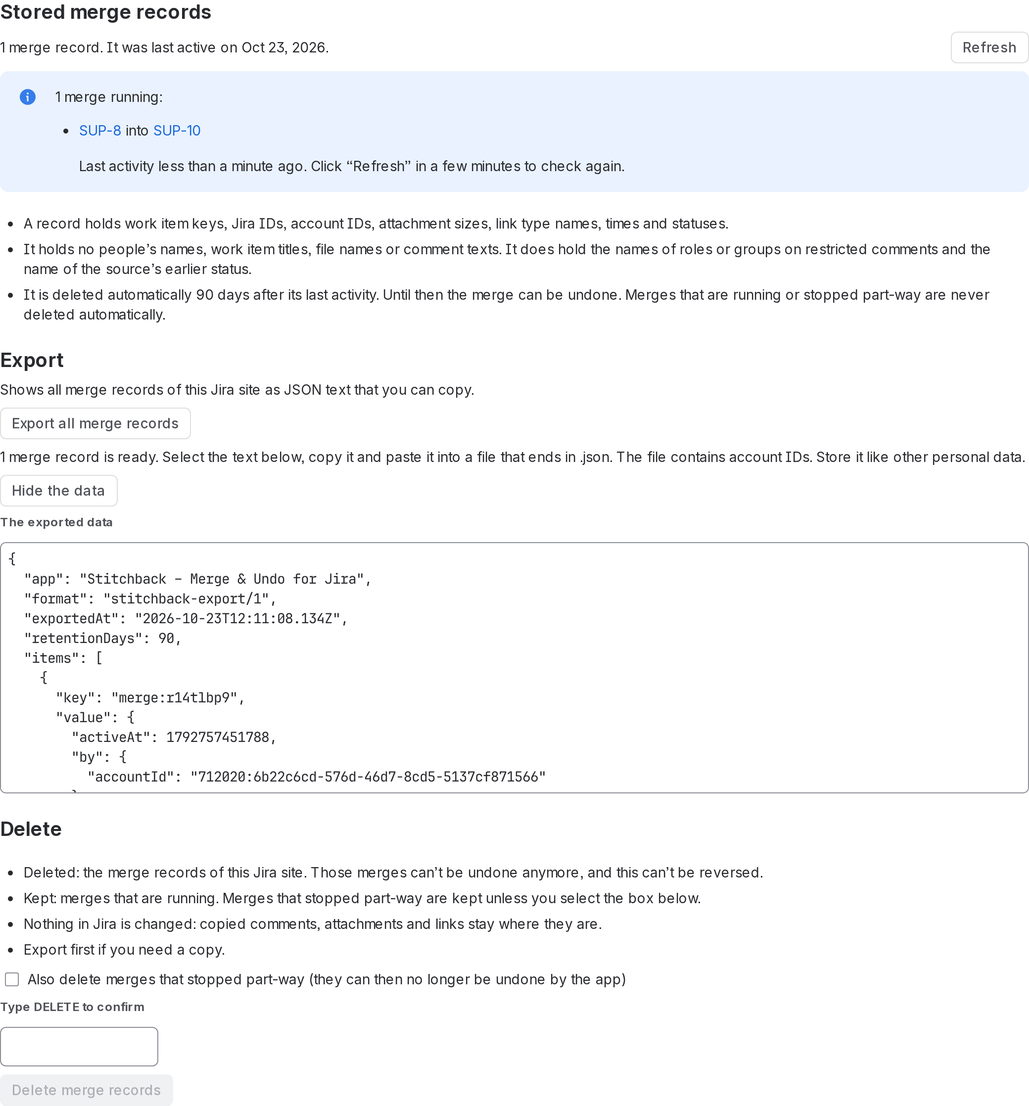
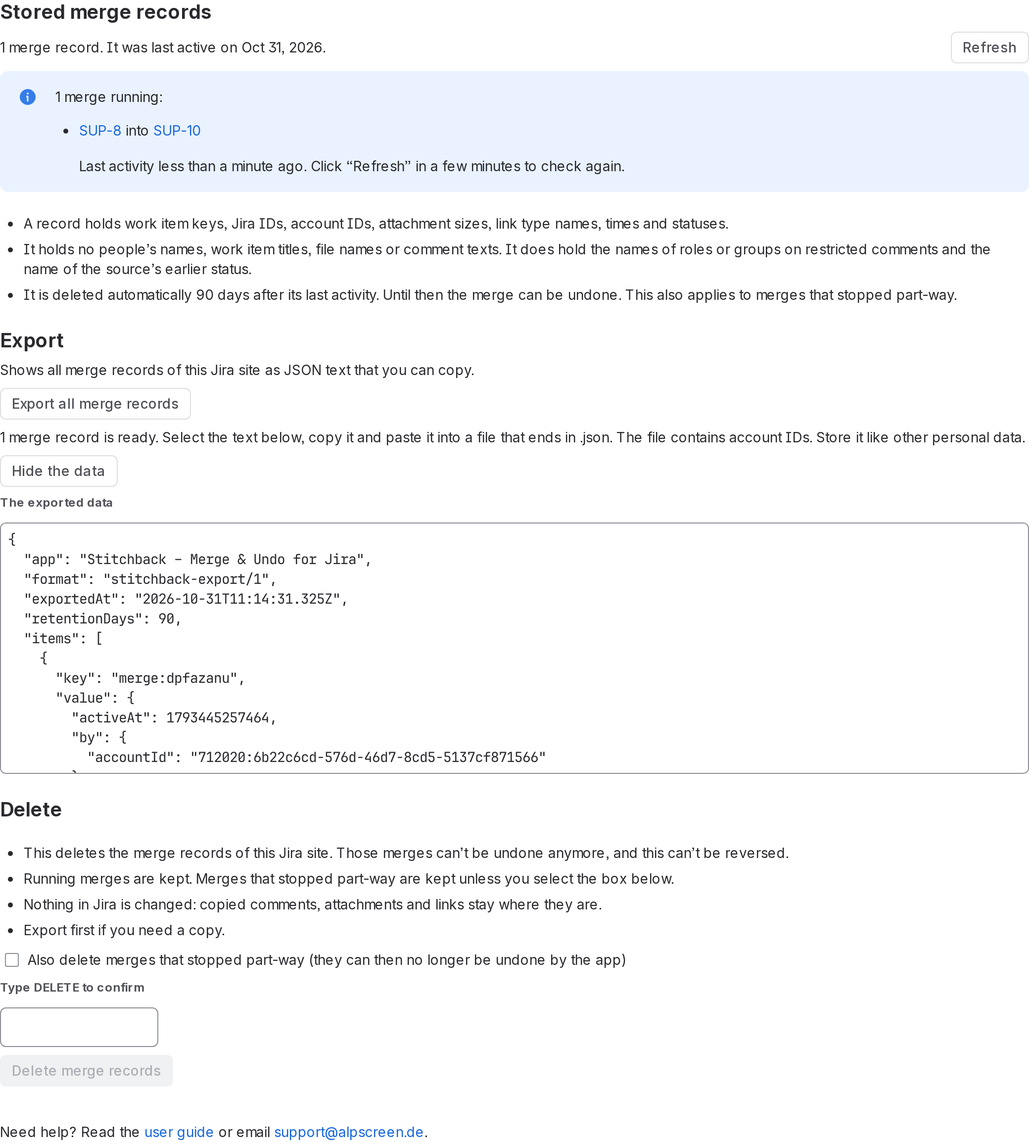
User Guide und Exportformat nach Code-Stand (lookup-Feld, fuenf Ablehnungen, Space-Begriff), Bilder neu (Quelle jira-merge a320d0e)

diff --git a/user-guide.html b/user-guide.html
@@ -7,38 +7,38 @@ figure{margin:12px 0 24px}figcaption{font-size:13px;color:#44546f;margin-top:6px
 nav{font-size:14px;margin-bottom:24px}
 </style></head><body><nav><a href="index.html">All documents</a> · <a href="eula.html">End User Terms</a> · <a href="privacy.html">Privacy Policy</a> · <a href="dpa.html">Data Processing Agreement</a> · <a href="support.html">Support</a> · <a href="security.html">Security</a> · <a href="export-format.html">Export Format</a> · <strong>User Guide</strong></nav><h1>Stitchback – Merge &amp; Undo for Jira: User guide</h1>
 <h2>What it does</h2>
-<p>Stitchback merges one Jira or Jira Service Management work item (the <em>source</em>) into another (the <em>target</em>). It copies the comments, attachments and work item links of the source to the target. It adds the requester when they can see the target, writes a merge note on the target and a closing note on the source. Then it links the two work items as duplicates and closes the source if its workflow allows. It uses a direct transition to a done status, or the transition you choose in the preview. Nothing is deleted from the source: the source work item stays, and the merge can be undone for 90 days.</p>
+<p>Stitchback merges one Jira or Jira Service Management work item (the <em>source</em>) into another (the <em>target</em>). It copies the comments, attachments and work item links of the source to the target. It adds the requester (in a software space: the reporter) when they can see the target. It also writes a merge note on the target and a closing note on the source. Then it links the two work items as duplicates and closes the source if its workflow allows. It uses a direct transition to a done status, or the transition you choose in the preview. Nothing is deleted from the source: the source work item stays, and the merge can be undone for 90 days.</p>
 <p>The app runs on Atlassian’s Forge platform. It acts as the user who clicks, so it can do nothing that user is not allowed to do.</p>
 <h2>Before you start</h2>
-<ul><li><strong>Jira Cloud.</strong> Stitchback works in Jira and Jira Service Management Cloud, in company-managed and team-managed projects, and between the two. It does not run on Jira Data Center or Server.</li><li><strong>A Jira administrator</strong> installs the app and is the only one who can open its admin page.</li><li><strong>Permissions.</strong> Each person who merges needs the Jira permissions listed under “Permissions you need”. The app checks them in the preview, before anything is changed.</li><li><strong>A browser window that stays open</strong> while a merge runs. Large merges take a few minutes.</li></ul>
+<ul><li><strong>Jira Cloud.</strong> Stitchback works in Jira and Jira Service Management Cloud, in company-managed and team-managed spaces, and between the two. It does not run on Jira Data Center or Server.</li><li><strong>A Jira administrator</strong> installs the app and is the only one who can open its admin page.</li><li><strong>Permissions.</strong> Each person who merges needs the Jira permissions listed under “Permissions you need”. The app checks them in the preview, before anything is changed.</li><li><strong>A browser window that stays open</strong> while a merge runs. Large merges take a few minutes.</li></ul>
 <h2>Install, trial and price</h2>
 <ol><li>A Jira administrator installs Stitchback from its Atlassian Marketplace listing, or from Jira’s app search (gear icon → <strong>Apps</strong>). Jira shows the permissions the app asks for before you confirm.</li><li>Once the app is installed, every work item has the entry <strong>Merge into another work item</strong> in its <strong>•••</strong> menu. It can take about a minute before the entry appears.</li><li>Jira administrators find the admin page <strong>Stitchback – merge records</strong> under the gear icon → <strong>Apps</strong>, in the left sidebar.</li></ol>
 <p>Stitchback is a paid app, billed by Atlassian. You can try it free for the trial period that the Atlassian Marketplace offers. The current prices are on the <strong>Pricing</strong> tab of the Marketplace listing. If the license ends, new merges are off, but undo, export and deletion keep working (see “License” below).</p>
 <h2>Merge two work items</h2>
-<ol><li>Open the source work item, click the <strong>•••</strong> menu and choose <strong>Merge into another work item</strong>.<br><figure><img alt="The ••• menu of a work item with the entry Merge into another work item." src="images/menu.png"><figcaption>The ••• menu of a work item with the entry Merge into another work item.</figcaption></figure></li><li>Search for the target work item by its key or title, for example <code>SUP-1</code>, and choose it from the list.</li><li>Choose what to copy: comments, attachments, work item links, and whether to close this work item afterwards. Choose how to treat the requester (see below).</li><li>Click <strong>Preview</strong>, then <strong>Merge</strong>. A progress bar shows the steps. Large merges take a few minutes. Keep the window open until it is done.<br><figure><img alt="The merge window with a preview of the comments, attachments and links to copy, and a warning that the subtasks stay with the source." src="images/preview.png"><figcaption>The merge window with a preview of the comments, attachments and links to copy, and a warning that the subtasks stay with the source.</figcaption></figure> <figure><img alt="The window after the merge: a green message with the numbers of copied comments, attachments and links, and the button Undo this merge." src="images/merged.png"><figcaption>The window after the merge: a green message with the numbers of copied comments, attachments and links, and the button Undo this merge.</figcaption></figure></li></ol>
+<ol><li>Open the source work item, click the <strong>•••</strong> menu and choose <strong>Merge into another work item</strong>.<br><figure><img alt="The ••• menu of a work item with the entry Merge into another work item." src="images/menu.png"><figcaption>The ••• menu of a work item with the entry Merge into another work item.</figcaption></figure></li><li>Search for the target work item by its key or title, for example <code>SUP-1</code>, and choose it from the list.</li><li>Choose what to copy: comments, attachments, work item links, and whether to close this work item afterwards. Choose how to treat the requester (in a software space: the reporter), see below.</li><li>Click <strong>Preview</strong>, then <strong>Merge</strong>. A progress bar shows the steps. Large merges take a few minutes. Keep the window open until it is done.<br><figure><img alt="The merge window with a preview of the comments, attachments and links to copy, and a warning that the subtasks stay with the source." src="images/preview.png"><figcaption>The merge window with a preview of the comments, attachments and links to copy, and a warning that the subtasks stay with the source.</figcaption></figure> <figure><img alt="The window after the merge: a green message with the numbers of copied comments, attachments and links, and the button Undo this merge." src="images/merged.png"><figcaption>The window after the merge: a green message with the numbers of copied comments, attachments and links, and the button Undo this merge.</figcaption></figure></li></ol>
 <p>What is copied:</p>
-<ul><li><strong>Comments</strong>, oldest first. Each copy starts with a line “Originally posted by <em>author</em> on <em>date</em> in <em>SOURCE</em>”. The copy itself is written by the person who clicked Merge. Rich text is kept. @-mentions become plain text, so nobody is notified a second time. Images embedded in a comment become a text note (the file itself arrives as an attachment).</li><li><strong>Attachments</strong> up to 25 MB each. A larger file stays on the source; a note points to it. A file that is already on the target (same name and size) is skipped, and the preview and the result name it.</li><li><strong>Work item links.</strong> A link between the two work items themselves is not copied, and no link is created twice.</li><li><strong>Requester.</strong></li><li>In a service project, the portal customer is added as a <em>request participant</em> of the target.</li><li>By default this happens only if the customer can already see the target, for example through the same organization.</li><li>If not, the preview warns you.</li><li>Staff members (licensed users) become watchers.</li><li>To change this, click “Change options”. Then choose “Only if they can already see the target (recommended)”, “Always add the requester” or “Never add the requester”.</li><li><strong>Note and link.</strong></li><li>A merge note on the target and a closing note on the source record the merge. Both are internal notes in service projects and regular comments in other projects.</li><li>The two work items are linked as duplicates.</li><li>The source is closed through a direct transition to a done status, if its workflow has one.</li><li>Otherwise you choose a transition in the preview.</li><li>If you choose none, the source stays open and the preview says so.</li></ul>
-<p>Comments in a <strong>service project</strong> (target) are created as <strong>internal notes</strong>, so the customer does not receive copies of internal history. If a comment was restricted to a role or group, the restriction is kept. If that is not possible on the target, the comment is <strong>not</strong> copied rather than posted more openly. When a service request is merged into a <strong>software project</strong>, its internal notes stay behind by default. “Skip internal notes” is selected, and the preview says how many. Clear the option to copy them; they are then visible to everyone who can see the target, and the preview warns you.</p>
+<ul><li><strong>Comments</strong>, oldest first. Each copy starts with a line “Originally posted by <em>author</em> on <em>date</em> in <em>SOURCE</em>”. The copy itself is written by the person who clicked Merge. Rich text is kept. @-mentions become plain text, so nobody is notified a second time. Images embedded in a comment become a text note (the file itself arrives as an attachment).</li><li><strong>Attachments</strong> up to 25 MB each. A larger file stays on the source; a note points to it. A file that is already on the target (same name and size) is skipped, and the preview and the result name it.</li><li><strong>Work item links.</strong> A link between the two work items themselves is not copied, and no link is created twice.</li><li><strong>Requester.</strong></li><li>In a service space, the portal customer is added as a <em>request participant</em> of the target.</li><li>By default this happens only if the customer can already see the target, for example through the same organization.</li><li>If not, the preview warns you.</li><li>Staff members (licensed users) become watchers.</li><li>To change this, click “Change options”. Then choose “Only if they can already see the target (recommended)”, “Always add the requester” or “Never add the requester”. In a software space the window says “reporter” instead.</li><li><strong>Note and link.</strong></li><li>A merge note on the target and a closing note on the source record the merge. Both are internal notes in service spaces and regular comments in other spaces.</li><li>The two work items are linked as duplicates.</li><li>The source is closed through a direct transition to a done status, if its workflow has one.</li><li>Otherwise you choose a transition in the preview.</li><li>If you choose none, the source stays open and the preview says so.</li></ul>
+<p>Comments in a <strong>service space</strong> (target) are created as <strong>internal notes</strong>, so the customer does not receive copies of internal history. If a comment was restricted to a role or group, the restriction is kept. If that is not possible on the target, the comment is <strong>not</strong> copied rather than posted more openly. When a service request is merged into a <strong>software space</strong>, its internal notes stay behind by default. “Skip internal notes” is selected, and the preview says how many. Clear the option to copy them; they are then visible to everyone who can see the target, and the preview warns you.</p>
 <p>Subtasks, and the child work items of an epic, stay with the source work item (the preview says so).</p>
-<p>The app refuses four things:</p>
-<ul><li>merging a work item into itself</li><li>merging a subtask into its own parent</li><li>merging a source that has a work item security level into a target with a different level or none</li><li>merging a work item that is already being merged</li></ul>
+<p>The app refuses five things:</p>
+<ul><li>merging a work item into itself</li><li>merging a subtask into its own parent</li><li>merging a source that has a work item security level into a target with a different level or none</li><li>merging a work item that is already being merged</li><li>merging a source with more than 1,000 comments, attachments and links together (turn off one kind under “Change options”)</li></ul>
 <h2>Permissions you need</h2>
 <p>Stitchback acts as you, so you need these Jira permissions. The preview checks the most important ones before anything is changed. If Add comments, Create attachments or Link work items is missing in the target, the preview says so and the merge does not start. Ask a Jira admin for the permission, or click “Change options” and turn off that part. If Jira still refuses one of these during the merge, the merge stops and says which step Jira refused. If Transition work items is missing in the source, the preview warns you and the source stays open. If another permission is missing, the merge runs to the end and the result names what was not done.</p>
-<ul><li>Browse projects, in both projects</li><li>Add comments, in the target</li><li>Create attachments, in the target</li><li>Link work items, in the target</li><li>Transition work items, in the source</li><li>To add the requester as a watcher: Manage watchers</li><li>To undo <strong>your own</strong> merge: Delete own comments and Delete own attachments</li><li>To undo a merge <strong>someone else</strong> started: Delete all comments and Delete all attachments, in the target. Jira lets you delete comments and attachments that another person added only with these permissions. The app checks them first. If one is missing, it changes nothing and tells you to ask the person who merged, or a Jira admin, to undo it.</li></ul>
+<ul><li>Browse projects, in both spaces</li><li>Add comments, in the target</li><li>Create attachments, in the target</li><li>Link work items, in the target</li><li>Transition work items, in the source</li><li>To add the requester (in a software space: the reporter) as a watcher: Manage watchers</li><li>To undo <strong>your own</strong> merge: Delete own comments and Delete own attachments</li><li>To undo a merge <strong>someone else</strong> started: Delete all comments and Delete all attachments, in the target. Jira lets you delete comments and attachments that another person added only with these permissions. The app checks them first. If one is missing, it changes nothing and tells you to ask the person who merged, or a Jira admin, to undo it.</li></ul>
 <h2>Preview</h2>
-<p><strong>Preview</strong> changes nothing. It shows the two work items and the number of comments, attachments and links that would be copied. It also shows whether the requester will be added, how the source will be closed, and any warnings. The warnings you may see:</p>
-<ul><li>An attachment larger than 25 MB stays on the source, and a note points to it.</li><li>An attachment is already on the target, so it won’t be copied again.</li><li>The requester can’t see the target.</li><li>A requester who is a portal customer can’t be added as a watcher.</li><li>Subtasks stay behind on the source.</li><li>Internal notes of a service request won’t be copied, so they stay internal. This is the default.</li><li>Internal notes of a service request become visible to everyone who can see the software-project target. This happens only if you cleared “Skip internal notes”.</li><li>No direct transition to a done status exists, so the source stays open unless you choose one.</li></ul>
+<p><strong>Preview</strong> changes nothing. It shows the two work items and the number of comments, attachments and links that would be copied. It also shows whether the requester (in a software space: the reporter) will be added, how the source will be closed, and any warnings. The warnings you may see:</p>
+<ul><li>An attachment larger than 25 MB stays on the source, and a note points to it.</li><li>An attachment is already on the target, so it won’t be copied again.</li><li>The requester can’t see the target.</li><li>A requester who is a portal customer can’t be added as a watcher.</li><li>Subtasks stay behind on the source.</li><li>Internal notes of a service request won’t be copied, so they stay internal. This is the default.</li><li>Internal notes of a service request become visible to everyone who can see the software-space target. This happens only if you cleared “Skip internal notes”.</li><li>No direct transition to a done status exists, so the source stays open unless you choose one.</li></ul>
 <p>Changing any option clears the preview, so you merge what you previewed. The <strong>Merge</strong> button appears once a preview has succeeded. Until then, the window tells you to click <strong>Preview</strong> first.</p>
 <h2>Undo</h2>
 <h3>Before undo: the question</h3>
 <p>After a merge the window offers <strong>Undo this merge</strong>. If you open the source work item later, the window tells you that it was merged and offers <strong>Undo this merge</strong> again. The app asks you to confirm before it removes anything. The question lists what goes away from the target. These are the copies, the duplicate link, the added request participant or watcher, the merge note and any note about a large attachment. From the source it removes the closing note. It also says which status the source goes back to and that a note about the undo is added to both work items. Comments and changes made by people stay.</p>
 <figure><img alt="The question “Undo this merge?” with the buttons Cancel and Undo this merge." src="images/undo-confirm.png"><figcaption>The question “Undo this merge?” with the buttons Cancel and Undo this merge.</figcaption></figure>
 <h3>After undo: the result</h3>
-<p>If the merge was started by someone else, the app first checks that you may delete their copies (see “Permissions you need”). Undo removes exactly what the question listed. Where its workflow allows, it moves the source back to its earlier status. It leaves a note on both work items (an internal note in service projects). When it is done, the window lists what it removed, for example “Removed 45 comments, the duplicate link and the merge note from MRG-5.” It also says which status the source is in again, and that the closing note was removed from the source. A link that already existed between the two work items before the merge is <strong>kept</strong>, because it was not made by the app.</p>
+<p>If the merge was started by someone else, the app first checks that you may delete their copies (see “Permissions you need”). Undo removes exactly what the question listed. Where its workflow allows, it moves the source back to its earlier status. It leaves a note on both work items (an internal note in service spaces). When it is done, the window lists what it removed, for example “Removed 45 comments, the duplicate link and the merge note from MRG-5.” It also says which status the source is in again, and that the closing note was removed from the source. A link that already existed between the two work items before the merge is <strong>kept</strong>, because it was not made by the app.</p>
 <p>Undo is possible for <strong>90 days</strong> after the merge’s last activity. After that the record is deleted and the merge can no longer be undone by the app.</p>
 <h3>If a merge or an undo stops part-way</h3>
 <ul><li>Undo can take a few minutes, like the merge, and shows a progress bar. If it stops part-way, open the work item again and click <strong>Resume</strong>; it checks Jira first and does not repeat finished steps.</li><li>A merge that stopped part-way (browser closed, network lost) shows <strong>Resume</strong> and <strong>Undo this merge</strong> when you open the source work item. The merge may still be running. You can undo it about 3 minutes after its last activity.</li><li>If you undo the same merge in two windows at once, the second one changes nothing. It says that another undo is running, or that the merge was already undone.</li></ul>
-<p>A merge that Jira refused (for example, a missing permission) is shown as failed: undo it, then merge again. If Jira is busy or does not answer, the merge stops and the window shows <strong>Resume</strong>. The app retries a failed call twice by itself first.</p>
+<p>If Jira refuses a step, for example for a missing permission, the merge stops part-way. The window offers <strong>Undo this merge</strong>: undo it, then merge again. If Jira is busy or does not answer, the merge stops and the window shows <strong>Resume</strong>. The app retries a failed call twice by itself first.</p>
 <h2>Stitchback is paused</h2>
 <p>The vendor can pause the app for all sites (for example after a security problem). While it is paused, the window shows “Stitchback is paused” and this message instead of the merge form: “The app vendor paused Stitchback for safety. Merge, resume and undo are off, and nothing was changed. Try again in a few hours. If it stays off, email support@alpscreen.de.” It takes effect about a minute after the switch is turned on. A merge or undo that is running then stops after its current step. The window says: “The app vendor paused Stitchback for safety, so this merge stopped part-way. What was copied so far stays, and nothing was deleted. Open the work item again in a few hours and click “Resume”. If it stays paused, email support@alpscreen.de.” The admin page (export and delete) is <strong>not</strong> affected.</p>
 <h2>Export and delete your data</h2>
@@ -48,15 +48,15 @@ nav{font-size:14px;margin-bottom:24px}
 <ul><li><strong>Export all merge records</strong> shows a summary and each merge record of your site as a JSON block. The block has a fixed height with its own scroll bar. The app can’t start a file download, so copy the text and save it as a <code>.json</code> file yourself. The file contains account IDs: store it like other personal data. The format of the document is described on the <a href="https://tomgebauerservices.github.io/stitchback-legal/export-format.html">export format page</a>.</li><li><strong>Delete merge records</strong> deletes the merge records of your site. Type <code>DELETE</code> to enable the button. Merges that are running are not deleted and are listed. Merges that stopped part-way are kept unless you select the box “Also delete merges that stopped part-way”. <strong>After deleting, those merges can no longer be undone by the app.</strong> Nothing in Jira is changed: copied comments, attachments and links stay where they are.</li></ul>
 <p>Export and deletion also work when the license is inactive and while Stitchback is paused.</p>
 <h2>Uninstall and what happens to your data</h2>
-<ol><li><strong>Export first, if you want to keep the merge records.</strong> On the admin page, click <strong>Export all merge records</strong> and save the text as a <code>.json</code> file. After uninstalling, the export is no longer available.</li><li><strong>Delete the records, if you want them gone now</strong> (optional): <strong>Delete merge records</strong> on the admin page.</li><li><strong>Uninstall:</strong> gear icon → <strong>Apps</strong> → <strong>Manage apps</strong>, open Stitchback and choose <strong>Uninstall</strong>.</li></ol>
+<ol><li><strong>Export first, if you want to keep the merge records.</strong> On the admin page, click <strong>Export all merge records</strong> and save the text as a <code>.json</code> file. After uninstalling, the export is no longer available.</li><li><strong>Delete the records, if you want them gone now</strong> (optional): <strong>Delete merge records</strong> on the admin page.</li><li><strong>Uninstall:</strong> gear icon → <strong>Apps</strong> → <strong>Manage apps</strong>, then <strong>Take me there</strong>. Jira opens <strong>Connected apps</strong> in Administration. Open Stitchback there and uninstall it.</li></ol>
 <p>What stays and what goes:</p>
 <ul><li><strong>Your work items stay as they are.</strong> Copied comments, attachments, links, notes and closed sources remain in Jira. After uninstalling, merges can no longer be undone by the app.</li><li><strong>The merge records</strong> are kept by Atlassian according to its data lifecycle for Forge apps, then deleted. The details are in the <a href="https://tomgebauerservices.github.io/stitchback-legal/privacy.html">Privacy Policy</a>, Section A5.</li><li>The vendor holds no copy of your data outside Atlassian.</li></ul>
 <h2>License</h2>
 <p>Starting a <strong>new merge</strong> needs an active Marketplace license. If Atlassian reports the license as explicitly inactive, the window shows “Your Stitchback license isn’t active, so new merges are off. Existing merges can still be undone. Ask a Jira admin to renew the license.” and <strong>Merge</strong> is disabled. Preview, finishing a merge that has begun, Undo, and the admin page keep working. If the app receives no license information at all, it does not block.</p>
 <h2>Known limits</h2>
-<ul><li><strong>Not copied:</strong> subtasks and the child work items of an epic, and attachments over 25 MB. The original author is not kept as author. Copies carry a header line instead, for example “Originally posted by Alex on Oct 1, 2026 09:00 in SUP-2 as an internal note:”.</li><li><strong>Time:</strong> large merges take a few minutes. Keep the window open until the progress bar is done.</li><li><strong>Reopening the source:</strong> if no transition leads back, the source stays closed; the window tells you.</li><li><strong>Undo period:</strong> 90 days; deleting merge records removes the ability to undo.</li><li><strong>Safety measure:</strong> if a copy that was created as internal comes back as public, the app deletes it at once and stops the merge. Use Undo to remove what was already copied.</li><li><strong>Service → software:</strong> internal notes of a service request stay behind unless you clear “Skip internal notes”. If you do, they become visible to everyone who can see the target, and the preview warns you.</li><li><strong>Export</strong> is a copyable JSON block, not a file download.</li><li><strong>Requesters:</strong> a portal customer can only be added to a target in a service project. There, “Always add the requester” adds them even if they can’t see the target. In other projects they can’t be added, and the preview says so.</li><li><strong>Size of one merge:</strong> at most 1,000 comments, attachments and links. Above that the preview asks you to turn off one part under “Change options”.</li><li><strong>Undo by someone else</strong> needs the Jira permissions Delete all comments and Delete all attachments.</li></ul>
+<ul><li><strong>Not copied:</strong> subtasks and the child work items of an epic, and attachments over 25 MB. The original author is not kept as author. Copies carry a header line instead, for example “Originally posted by Alex on Oct 1, 2026 09:00 in SUP-2 as an internal note:”.</li><li><strong>Time:</strong> large merges take a few minutes. Keep the window open until the progress bar is done.</li><li><strong>Reopening the source:</strong> if no transition leads back, the source stays closed; the window tells you.</li><li><strong>Undo period:</strong> 90 days; deleting merge records removes the ability to undo.</li><li><strong>Safety measure:</strong> if a copy that was created as internal comes back as public, the app deletes it at once and stops the merge. Use Undo to remove what was already copied.</li><li><strong>Service → software:</strong> internal notes of a service request stay behind unless you clear “Skip internal notes”. If you do, they become visible to everyone who can see the target, and the preview warns you.</li><li><strong>Export</strong> is a copyable JSON block, not a file download.</li><li><strong>Requesters:</strong> a portal customer can only be added to a target in a service space. There, “Always add the requester” adds them even if they can’t see the target. In other spaces they can’t be added, and the preview says so.</li><li><strong>Size of one merge:</strong> at most 1,000 comments, attachments and links. Above that the preview asks you to turn off one part under “Change options”.</li><li><strong>Undo by someone else</strong> needs the Jira permissions Delete all comments and Delete all attachments.</li></ul>
 <h2>Troubleshooting and FAQ</h2>
-<p><strong>The entry Merge into another work item is missing.</strong> Reload the page. Right after you install the app it can take about a minute. If it is still missing, ask a Jira admin to check under gear icon → <strong>Apps</strong> → <strong>Manage apps</strong> that Stitchback is installed and enabled.</p>
+<p><strong>The entry Merge into another work item is missing.</strong> Reload the page. Right after you install the app it can take about a minute. If it is still missing, ask a Jira admin to check that Stitchback is installed and enabled. The admin finds it under <strong>Connected apps</strong> in Administration (gear icon → <strong>Apps</strong> → <strong>Manage apps</strong> → <strong>Take me there</strong>).</p>
 <p><strong>There is no Merge button.</strong> Click <strong>Preview</strong> first. The <strong>Merge</strong> button appears once a preview has succeeded. Changing an option clears the preview, so click <strong>Preview</strong> again.</p>
 <p><strong>The preview says I don’t have a permission.</strong> Ask a Jira admin for the permission it names, or click “Change options” and turn off that part, then click <strong>Preview</strong> again.</p>
 <p><strong>The window says the work item “is already being merged”.</strong> Another merge of the same source is running. Wait until it is done, or open the work item again a few minutes later. A merge that stopped part-way offers <strong>Resume</strong> and <strong>Undo this merge</strong>.</p>

diff --git a/export-format.html b/export-format.html
@@ -22,12 +22,14 @@ nav{font-size:14px;margin-bottom:24px}
   "items": [
     { "key": "merge:&lt;merge ID&gt;", "value": { } },
     { "key": "running:&lt;issue key&gt;", "value": { } },
-    { "key": "last:&lt;issue key&gt;", "value": "&lt;merge ID&gt;" },
     { "key": "runlock:&lt;merge ID&gt;", "value": { } },
     { "key": "retention:cursor", "value": { } }
+  ],
+  "lookup": [
+    { "key": "last:&lt;issue key&gt;", "value": "&lt;merge ID&gt;" }
   ]
 }</code></pre>
-<table><thead><tr><th>Field</th><th>Meaning</th></tr></thead><tbody><tr><td><code>app</code>, <code>format</code></td><td>Product name and format version. A change that is not backwards compatible gets a new format version</td></tr><tr><td><code>exportedAt</code></td><td>Time of the export</td></tr><tr><td><code>retentionDays</code></td><td>Retention period applied by the installation</td></tr><tr><td><code>items</code></td><td>All stored entries as key–value pairs, in storage order</td></tr></tbody></table>
+<table><thead><tr><th>Field</th><th>Meaning</th></tr></thead><tbody><tr><td><code>app</code>, <code>format</code></td><td>Product name and format version. A change that is not backwards compatible gets a new format version</td></tr><tr><td><code>exportedAt</code></td><td>Time of the export</td></tr><tr><td><code>retentionDays</code></td><td>Retention period applied by the installation</td></tr><tr><td><code>items</code></td><td>All stored entries except the <code>last:</code> entries, as key–value pairs, in storage order</td></tr><tr><td><code>lookup</code></td><td>The <code>last:</code> entries (Section 4), as key–value pairs. <code>items</code> and <code>lookup</code> together hold every stored key</td></tr></tbody></table>
 <h2>4. Keys</h2>
 <table><thead><tr><th>Key</th><th>Value</th></tr></thead><tbody><tr><td><code>merge:&lt;merge ID&gt;</code></td><td>The <strong>merge record</strong> (Section 5)</td></tr><tr><td><code>running:&lt;issue key&gt;</code></td><td>Lock while a merge of this source issue is running: <code>{ "id": &lt;merge ID&gt;, "at": &lt;timestamp&gt; }</code></td></tr><tr><td><code>last:&lt;issue key&gt;</code></td><td>ID of the most recent merge in which this issue was source or target</td></tr><tr><td><code>runlock:&lt;merge ID&gt;</code>, <code>undolock:&lt;merge ID&gt;</code></td><td>Lock for one stage of a merge or of an undo: <code>{ "token": &lt;random string&gt;, "until": &lt;timestamp&gt; }</code>. No personal data. Expired locks are removed by the daily clean-up</td></tr><tr><td><code>retention:cursor</code></td><td>Where the daily clean-up stopped: <code>{ "phase", "after", "at" }</code>. Internal position marker, no personal data</td></tr></tbody></table>
 <h2>5. Merge record</h2>
